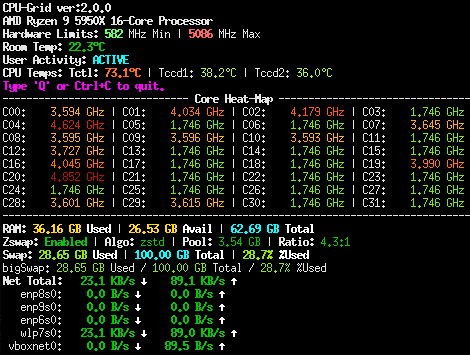
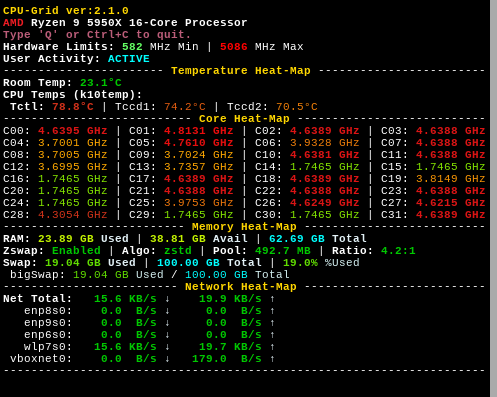
- Updated screenshots for README.md - Updated README.md

Changed region(s): [[0.0, 0.0, 1.0, 1.0], [0.3277, 0.1549, 0.7149, 0.2169], [0.7447, 0.1549, 0.8043, 0.1859]]

diff --git a/README.md b/README.md
@@ -1,6 +1,7 @@
 # CPU-Grid
+
 ## Running/Monitoring...
-![CPU-Grid in action](Screenshot-Main.png) 
+![CPU-Grid in action](Screenshot-Main.png)
 
 ## Help (-h or --help)
 ![CPU-Grid Help](Screenshot-Help.png)
@@ -8,40 +9,44 @@
 ## What is it?
 CPU-Grid is a real-time, terminal-based system monitoring tool written in Rust. It provides a clean, color-coded overview of your system's performance, including CPU frequencies, hardware temperatures, memory utilization, Zswap metrics, network throughput, and user activity.
 
+## Architecture & Compatibility
+- **Architecture**: Full support for x86, ARM (incl. Apple Silicon), RISC-V, and IBM processor architectures via standard Linux kernel sysfs interfaces.
+- **OS Enforcement**: Strictly targets Linux at compile time (`#![cfg(target_os = "linux")]`).
+
 ## Features
 
 - **Real-time Monitoring**: Tracks per-core CPU frequency, RAM/Swap usage, hardware thermals, network speeds, and user idle time.
 - **Smart Color-Coding**: Uses dynamic multi-stop color scaling to visually represent load, speed, and temperature intensity.
-- **Advanced Memory & Zswap Insights**: Monitors individual swap device utilization, Zswap compression algorithms, pool statistics, and compression ratios to flag performance degradation.
-- **Network & Event Tracking**: Monitors active Rx/Tx interface speeds against maximum throughput and dynamically logs interface connection/disconnection events.
-- **User Activity Tracking**: Zero-dependency hardware-level idle tracker reading raw system inputs, with secure user-space Wayland/X11 DBus fallbacks.
-- **Virtual Machine Awareness**: Gracefully detects VM guest environments and adjusts the UI to hide inaccessible hardware limits.
-- **Room Temperature**: Integrates with temper-poll to display ambient room temperature, including dynamic text warnings if the room reaches critical heat levels.
-- **Ultra-Lightweight & Safe**: Built with a multi-threaded architecture featuring zero-allocation data polling loops and strict thread cleanup for minimal CPU footprint and zero memory leaks. For reference: a Ryzen 5950x running CPU-Grid with 1 millisecond interval update for cpu frequencies ('-n 0.1' which is the minimum allowed) and cpu temperature readings, which is the hardest load you can apply to this program; registers 0% to 0.67% of one logical core usage using ~400KB-500KB of memory executing 24/7!
-- **Squashable Grid**: Its primary design goal was to be able to show logical core frequencies, temperatures, memory & swap pressure, and networking all in a grid in the smallest shrunk terminal window possible with the least amount of resources used (scales down to 17 columns). The grid will reorient based on terminal window dimensions.
+- **Advanced Memory & Zswap Insights**: Monitors individual swap device utilization, Zswap compression algorithms (`zstd`, `lz4`, `lzo`, `deflate`), pool statistics, and compression ratios.
+- **Network & Event Tracking**: Monitors active Rx/Tx interface speeds against maximum throughput and dynamically logs interface connection/disconnection events (`ACTIVATED` / `DEACTIVATED`).
+- **User Activity Tracking**: Reads raw hardware system inputs (`/dev/input`, `/dev/pts`, `/dev/tty`) with secure user-space Wayland/X11 DBus fallbacks (`busctl`, `xprintidle`).
+- **Virtual Machine Awareness**: Detects VM guest environments (via `/proc/cpuinfo` hypervisor flags and DMI product names) and adjusts the UI to hide inaccessible hardware limits.
+- **Room Temperature**: Integrates with `temper-poll` to display ambient room temperature, including dynamic text warnings if room heat reaches critical levels (>=40°C).
+- **Ultra-Lightweight & Safe**: Built with a multi-threaded architecture (6 dedicated worker threads: `cg-cpu`, `cg-thermal`, `cg-room`, `cg-mem`, `cg-net`, `cg-idle`) communicating via a bounded MPSC channel (capacity 32). Features zero-allocation data polling loops and strict thread cleanup for minimal CPU footprint and zero memory leaks.
+- **Squashable Grid**: Designed to display logical core frequencies, temperatures, memory & swap pressure, and networking in a grid in the smallest shrunk terminal window possible (scales down to 17 columns). Features self-aligning two-column rendering for Swap and Network metrics.
 
 ## Color Legend
 Color shade gradually changes between the ranges defined underneath.
 
 | Metric | Color Scale |
 | :--- | :--- |
-| **CPU Freq** | Green (0-50%) → Yellow (50-70%) → Orange (70-85%) → Red (85-100%) → Violet (≥100% overclock) |
-| **CPU Temp** | Green (Cool) → Red (Thermal Limit) → Violet (Exceeds Limit) <br> (Note: Limit is dynamic, set by your specific hardware specs)|
-| **Room Temp**| Green (≤24°C) → Yellow (27°C) → Orange (31°C) → LtRed (35°C) → Violet (≥40°C, triggers Warning) |
-| **RAM Load** | Green (0-50%) → Yellow (50-70%) → Orange (70-85%) → Red (85-95%) → Violet (≥95%) |
-| **Swap Load** | Green (0-50%) → Yellow (50-70%) → Orange (70-80%) → Red (80-90%) → Violet (≥90%) |
-| **Network Load** | Green (Low) → Yellow → Orange → Red (Near Interface Max) → Violet (Exceeds Theoretical) |
-| **Zswap Status** | Green (Enabled) → Bright Red (Disabled) → Yellow (Unknown) → Violet (Not Present) |
+| **CPU Freq** | Green (0-50%) → Yellow (50-70%) → Orange (70-85%) → Hot Red (85-100%) → Violet (>100% overclock) |
+| **RAM Load** | Green (0-50%) → Yellow (50-70%) → Orange (70-85%) → Hot Red (85-95%) → Violet (>=95%)<br>*(Used and Available share the same color to indicate total memory pressure)* |
+| **Swap Load** | Green (0-50%) → Yellow (50-70%) → Orange (70-80%) → Hot Red (80-90%) → Violet (>=90%) |
+| **Network Load** | Green (Low) → Yellow → Orange → Hot Red (Near Interface Max) → Violet (Exceeds Theoretical) |
+| **CPU Temp** | Green (Cool) → Red (Thermal Throttle Limit) → Violet (Exceeds Limit)<br>*(Note: Limit is dynamic, set by your specific CPU hardware)* |
+| **Room Temp** | Green (<=24°C) → Yellow (27°C) → Orange (31°C) → LtRed (35°C) → Violet (>=40°C) |
+| **Zswap Status** | Green (Enabled) → Bright Red (Disabled) → Yellow (Unknown Status) → Violet (Not Present) |
 | **Zswap Algo** | Green (zstd) → Yellow (lz4) → Orange (lzo) → Red (deflate) → Violet (Other) |
 | **Zswap Ratio** | Violet (<1:1) → Red (1:1) → Orange (1.5:1) → Yellow (2.5:1) → Green (4:1+) |
 | **User Activity** | Cyan (Active) → Green → Yellow → Orange → Red → Violet (1+ Year Idle) |
 
 ## Requirements
 
-- **OS**: Linux (Target strictly enforced at compile time. Requires access to /proc and /sys/class/hwmon).
-- **Rust/Cargo**: Required to build from source.
-- **Dependencies**: crossterm, which.
-- **External (OPTIONAL)**: `temper-poll` must be installed and in your system PATH for ambient room temperature. Optional user-space fallback dependencies for user idle tracking: `busctl` (Wayland) or `xprintidle` (X11).
+- **OS**: Linux (Target strictly enforced at compile time. Requires access to `/proc` and `/sys/class/hwmon`).
+- **Rust/Cargo**: Rust Edition 2024 required to build from source.
+- **Dependencies**: `crossterm` (v0.29.0), `which` (v6.0).
+- **External (OPTIONAL)**: `temper-poll` must be installed and in system PATH for ambient room temperature. Optional fallback binaries for user idle tracking: `busctl` (Wayland/GNOME/KDE) or `xprintidle` (X11).
 
 ## Installation
 
@@ -49,30 +54,3 @@ Color shade gradually changes between the ranges defined underneath.
    ```bash
    git clone [https://github.com/StatusCode404/CPU-Grid.git](https://github.com/StatusCode404/CPU-Grid.git)
    cd cpu-grid
-
-2. Build the project:
-   ```bash
-   cargo build --release
-   ```
-
-3. Run the application:
-   ```bash
-   ./target/release/cpu_grid
-   ```
-
-## Usage
-Values are in seconds. Parameters given less than or greater than the boundary ranges will fall back to the nearest boundary range.
-
-| Flag | Description | Boundary Ranges |
-| :--- | :--- | :--- |
-| `-n <secs>` | Interval for CPU stats | 0.1 - 60s, default 2.0 |
-| `-r <secs>` | Interval for Room Temp | 1 - 3600s, default 2.0 |
-| `-m <secs>` | Interval for Memory stats | 0.5 - 60s, default 2.0 |
-| `-t <secs>` | Interval for Network traffic | 0.5 - 60s, default 2.0 |
-
-**Controls:**
-- Press `Q` or `Ctrl+C` to cleanly terminate background threads and quit the application.
-
-## License
-
-Distributed under the GNU General Public License v3.0. See the `LICENSE` file for more information.